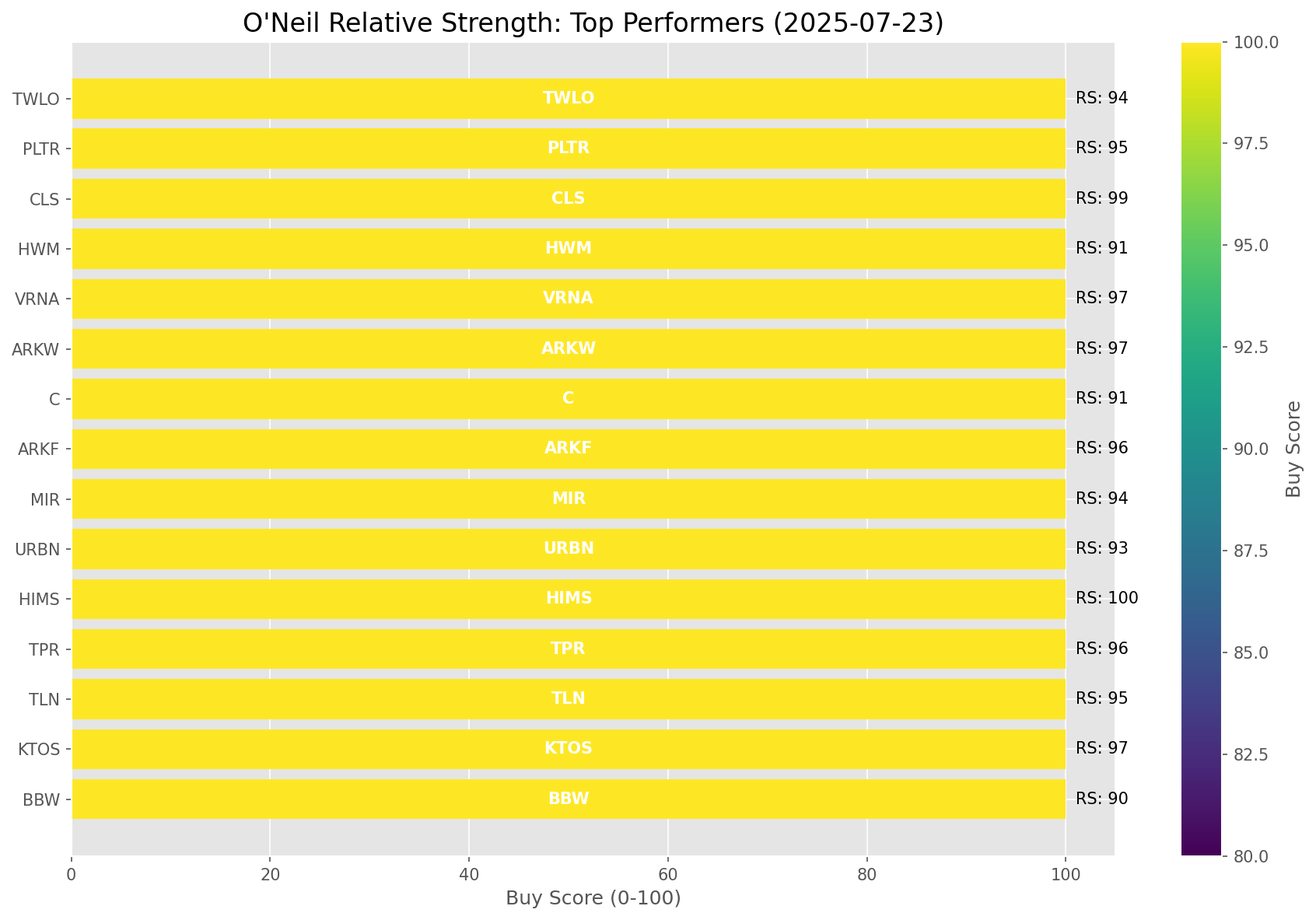
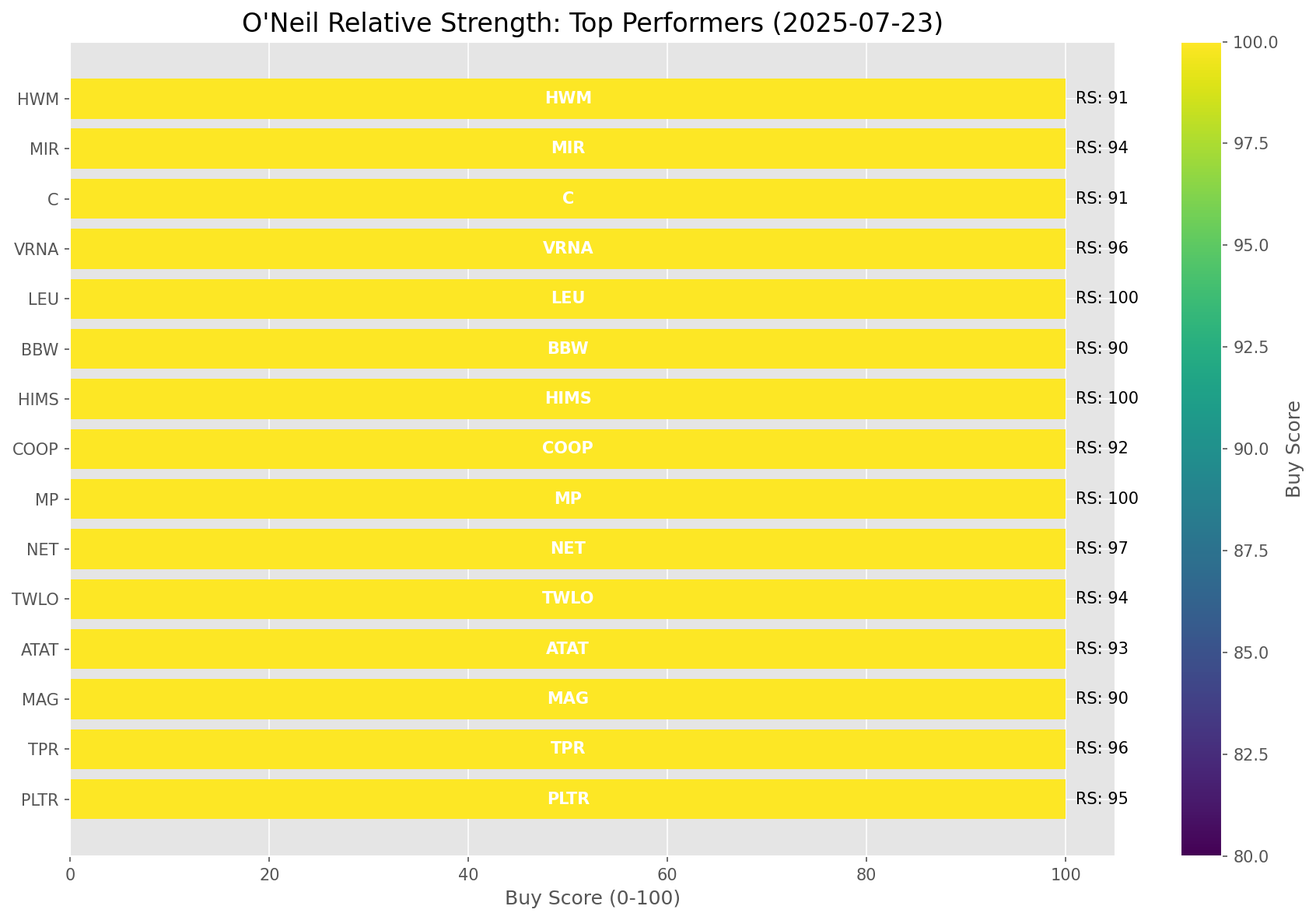
Add market report for 2025-07-23

diff --git a/oneil_relative_strength_report_2025-07-23.md b/oneil_relative_strength_report_2025-07-23.md
@@ -13,7 +13,7 @@
 | **Historical Mean** | 9.54 |
 | **Standard Deviation** | 0.57 |
 | **Z-Score (StdDev from Mean)** | 1.39 |
-| **Total Market Cap** | $311.92 trillion |
+| **Total Market Cap** | $311.98 trillion |
 | **GDP** | $29.96 trillion |
 
 ## **Market Insights**
@@ -49,41 +49,41 @@ Based on William O'Neil's Relative Strength Methodology
 
 | ETF | Strength | RS Rating | Performance | Above Key MAs | Trend | Sector |
 |-----|----------|-----------|-------------|--------------|-------|--------|
-| [URA](https://www.tradingview.com/chart/?symbol=URA) | 98.5 | 97.0 | 79.61% | 10d ✓, 50d ✓, 200d ✓ | ↗ | Uranium |
+| [URA](https://www.tradingview.com/chart/?symbol=URA) | 99.0 | 98.0 | 80.62% | 10d ✓, 50d ✓, 200d ✓ | ↗ | Uranium |
 | [ARKW](https://www.tradingview.com/chart/?symbol=ARKW) | 98.5 | 97.0 | 74.96% | 10d ✓, 50d ✓, 200d ✓ | ↗ | Next Generation Internet |
 | [BLOK](https://www.tradingview.com/chart/?symbol=BLOK) | 98.0 | 96.0 | 69.45% | 10d ✓, 50d ✓, 200d ✓ | ↗ | Blockchain & Cryptocurrency |
+| [ARKK](https://www.tradingview.com/chart/?symbol=ARKK) | 98.0 | 96.0 | 67.25% | 10d ✓, 50d ✓, 200d ✓ | ↗ | Innovation |
 | [ARKF](https://www.tradingview.com/chart/?symbol=ARKF) | 98.0 | 96.0 | 68.12% | 10d ✓, 50d ✓, 200d ✓ | ↗ | Fintech Innovation |
-| [ARKK](https://www.tradingview.com/chart/?symbol=ARKK) | 98.0 | 96.0 | 66.73% | 10d ✓, 50d ✓, 200d ✓ | ↗ | Innovation |
-| [JETS](https://www.tradingview.com/chart/?symbol=JETS) | 92.0 | 84.0 | 35.86% | 10d ✓, 50d ✓, 200d ✓ | ↗ | Airlines |
-| [XLK](https://www.tradingview.com/chart/?symbol=XLK) | 91.5 | 83.0 | 35.16% | 10d ✓, 50d ✓, 200d ✓ | ↗ | Technology |
-| [AIQ](https://www.tradingview.com/chart/?symbol=AIQ) | 90.5 | 81.0 | 32.95% | 10d ✓, 50d ✓, 200d ✓ | ↗ | Artificial Intelligence & Technology |
-| [PAVE](https://www.tradingview.com/chart/?symbol=PAVE) | 88.5 | 77.0 | 29.07% | 10d ✓, 50d ✓, 200d ✓ | ↗ | Infrastructure |
-| [XLI](https://www.tradingview.com/chart/?symbol=XLI) | 84.5 | 69.0 | 23.23% | 10d ✓, 50d ✓, 200d ✓ | ↗ | Industrial |
-| [CIBR](https://www.tradingview.com/chart/?symbol=CIBR) | 84.0 | 68.0 | 23.05% | 10d ✓, 50d ✓, 200d ✓ | ↗ | Cybersecurity |
-| [XLY](https://www.tradingview.com/chart/?symbol=XLY) | 83.0 | 66.0 | 21.71% | 10d ✓, 50d ✓, 200d ✓ | ↗ | Consumer Discretionary |
-| [SLV](https://www.tradingview.com/chart/?symbol=SLV) | 82.5 | 65.0 | 20.76% | 10d ✓, 50d ✓, 200d ✓ | ↗ | Silver |
-| [IYZ](https://www.tradingview.com/chart/?symbol=IYZ) | 81.5 | 63.0 | 20.31% | 10d ✓, 50d ✓, 200d ✓ | ↗ | Telecommunications |
-| [XLC](https://www.tradingview.com/chart/?symbol=XLC) | 81.0 | 62.0 | 19.71% | 10d ✓, 50d ✓, 200d ✓ | ↗ | Communications |
-| [KWEB](https://www.tradingview.com/chart/?symbol=KWEB) | 80.0 | 60.0 | 18.72% | 10d ✓, 50d ✓, 200d ✓ | ↗ | Chinese Internet |
-| [XLF](https://www.tradingview.com/chart/?symbol=XLF) | 73.0 | 46.0 | 12.32% | 10d ✓, 50d ✓, 200d ✓ | ↗ | Financial |
-| [XLU](https://www.tradingview.com/chart/?symbol=XLU) | 68.5 | 37.0 | 8.10% | 10d ✓, 50d ✓, 200d ✓ | ↗ | Utilities |
-| [ARKG](https://www.tradingview.com/chart/?symbol=ARKG) | 65.0 | 70.0 | 24.37% | 10d ✓, 50d ✓, 200d ✓ | ↘ | Genomics |
-| [SOXX](https://www.tradingview.com/chart/?symbol=SOXX) | 64.6 | 89.0 | 44.71% | 10d ✗, 50d ✓, 200d ✓ | ↘ | Semiconductors |
-| [IYT](https://www.tradingview.com/chart/?symbol=IYT) | 63.0 | 66.0 | 21.89% | 10d ✓, 50d ✓, 200d ✓ | ↘ | Transportation |
-| [ICLN](https://www.tradingview.com/chart/?symbol=ICLN) | 63.0 | 66.0 | 21.88% | 10d ✓, 50d ✓, 200d ✓ | ↘ | Clean Energy |
-| [GLD](https://www.tradingview.com/chart/?symbol=GLD) | 59.0 | 18.0 | 0.48% | 10d ✓, 50d ✓, 200d ✓ | ↗ | Gold |
-| [XLB](https://www.tradingview.com/chart/?symbol=XLB) | 54.5 | 49.0 | 13.39% | 10d ✓, 50d ✓, 200d ✓ | ↘ | Materials |
-| [ITB](https://www.tradingview.com/chart/?symbol=ITB) | 48.3 | 57.0 | 16.92% | 10d ✓, 50d ✓, 200d ✗ | ↘ | Home Construction |
+| [JETS](https://www.tradingview.com/chart/?symbol=JETS) | 92.5 | 85.0 | 36.19% | 10d ✓, 50d ✓, 200d ✓ | ↗ | Airlines |
+| [XLK](https://www.tradingview.com/chart/?symbol=XLK) | 92.0 | 84.0 | 35.10% | 10d ✓, 50d ✓, 200d ✓ | ↗ | Technology |
+| [AIQ](https://www.tradingview.com/chart/?symbol=AIQ) | 89.5 | 79.0 | 31.06% | 10d ✓, 50d ✓, 200d ✓ | ↗ | Artificial Intelligence & Technology |
+| [PAVE](https://www.tradingview.com/chart/?symbol=PAVE) | 87.5 | 75.0 | 27.16% | 10d ✓, 50d ✓, 200d ✓ | ↗ | Infrastructure |
+| [XLI](https://www.tradingview.com/chart/?symbol=XLI) | 85.0 | 70.0 | 23.30% | 10d ✓, 50d ✓, 200d ✓ | ↗ | Industrial |
+| [XLY](https://www.tradingview.com/chart/?symbol=XLY) | 83.5 | 67.0 | 21.67% | 10d ✓, 50d ✓, 200d ✓ | ↗ | Consumer Discretionary |
+| [SLV](https://www.tradingview.com/chart/?symbol=SLV) | 83.0 | 66.0 | 21.02% | 10d ✓, 50d ✓, 200d ✓ | ↗ | Silver |
+| [CIBR](https://www.tradingview.com/chart/?symbol=CIBR) | 83.0 | 66.0 | 21.27% | 10d ✓, 50d ✓, 200d ✓ | ↗ | Cybersecurity |
+| [IYZ](https://www.tradingview.com/chart/?symbol=IYZ) | 82.0 | 64.0 | 20.31% | 10d ✓, 50d ✓, 200d ✓ | ↗ | Telecommunications |
+| [XLC](https://www.tradingview.com/chart/?symbol=XLC) | 81.5 | 63.0 | 19.70% | 10d ✓, 50d ✓, 200d ✓ | ↗ | Communications |
+| [KWEB](https://www.tradingview.com/chart/?symbol=KWEB) | 80.5 | 61.0 | 18.54% | 10d ✓, 50d ✓, 200d ✓ | ↗ | Chinese Internet |
+| [XLF](https://www.tradingview.com/chart/?symbol=XLF) | 74.0 | 48.0 | 12.43% | 10d ✓, 50d ✓, 200d ✓ | ↗ | Financial |
+| [XLU](https://www.tradingview.com/chart/?symbol=XLU) | 69.0 | 38.0 | 7.96% | 10d ✓, 50d ✓, 200d ✓ | ↗ | Utilities |
+| [ARKG](https://www.tradingview.com/chart/?symbol=ARKG) | 65.5 | 71.0 | 24.41% | 10d ✓, 50d ✓, 200d ✓ | ↘ | Genomics |
+| [SOXX](https://www.tradingview.com/chart/?symbol=SOXX) | 65.1 | 90.0 | 44.82% | 10d ✗, 50d ✓, 200d ✓ | ↘ | Semiconductors |
+| [IYT](https://www.tradingview.com/chart/?symbol=IYT) | 64.0 | 68.0 | 21.89% | 10d ✓, 50d ✓, 200d ✓ | ↘ | Transportation |
+| [ICLN](https://www.tradingview.com/chart/?symbol=ICLN) | 61.0 | 62.0 | 18.99% | 10d ✓, 50d ✓, 200d ✓ | ↘ | Clean Energy |
+| [GLD](https://www.tradingview.com/chart/?symbol=GLD) | 59.5 | 19.0 | 0.47% | 10d ✓, 50d ✓, 200d ✓ | ↗ | Gold |
+| [XLB](https://www.tradingview.com/chart/?symbol=XLB) | 55.0 | 50.0 | 13.21% | 10d ✓, 50d ✓, 200d ✓ | ↘ | Materials |
+| [IBB](https://www.tradingview.com/chart/?symbol=IBB) | 53.5 | 47.0 | 12.28% | 10d ✓, 50d ✓, 200d ✓ | ↘ | Biotechnology |
 | [IYR](https://www.tradingview.com/chart/?symbol=IYR) | 47.0 | 34.0 | 6.43% | 10d ✓, 50d ✓, 200d ✓ | ↘ | Real Estate |
-| [DBC](https://www.tradingview.com/chart/?symbol=DBC) | 46.0 | 32.0 | 5.90% | 10d ✓, 50d ✓, 200d ✓ | ↘ | Commodities |
-| [IBB](https://www.tradingview.com/chart/?symbol=IBB) | 44.3 | 49.0 | 13.31% | 10d ✓, 50d ✓, 200d ✗ | ↘ | Biotechnology |
-| [BIL](https://www.tradingview.com/chart/?symbol=BIL) | 38.0 | 16.0 | 0.03% | 10d ✓, 50d ✓, 200d ✓ | ↘ | Short-term Treasuries |
-| [XLP](https://www.tradingview.com/chart/?symbol=XLP) | 37.0 | 14.0 | -0.81% | 10d ✓, 50d ✓, 200d ✓ | ↘ | Consumer Staples |
+| [DBC](https://www.tradingview.com/chart/?symbol=DBC) | 46.5 | 33.0 | 5.90% | 10d ✓, 50d ✓, 200d ✓ | ↘ | Commodities |
+| [ITB](https://www.tradingview.com/chart/?symbol=ITB) | 43.8 | 48.0 | 12.48% | 10d ✓, 50d ✓, 200d ✗ | ↘ | Home Construction |
+| [BIL](https://www.tradingview.com/chart/?symbol=BIL) | 38.5 | 17.0 | 0.04% | 10d ✓, 50d ✓, 200d ✓ | ↘ | Short-term Treasuries |
+| [XLP](https://www.tradingview.com/chart/?symbol=XLP) | 37.5 | 15.0 | -0.92% | 10d ✓, 50d ✓, 200d ✓ | ↘ | Consumer Staples |
 | [DBA](https://www.tradingview.com/chart/?symbol=DBA) | 35.9 | 12.0 | -2.55% | 10d ✓, 50d ✗, 200d ✗ | ↗ | Agriculture |
-| [XLV](https://www.tradingview.com/chart/?symbol=XLV) | 29.3 | 19.0 | 0.67% | 10d ✓, 50d ✓, 200d ✗ | ↘ | Healthcare |
-| [XLE](https://www.tradingview.com/chart/?symbol=XLE) | 26.9 | 34.0 | 6.51% | 10d ✗, 50d ✓, 200d ✗ | ↘ | Energy |
-| [TLT](https://www.tradingview.com/chart/?symbol=TLT) | 17.4 | 15.0 | -0.47% | 10d ✓, 50d ✗, 200d ✗ | ↘ | Long-term Treasuries |
-| [UUP](https://www.tradingview.com/chart/?symbol=UUP) | 8.5 | 17.0 | 0.22% | 10d ✗, 50d ✗, 200d ✗ | ↘ | U.S. Dollar |
+| [XLV](https://www.tradingview.com/chart/?symbol=XLV) | 29.8 | 20.0 | 0.66% | 10d ✓, 50d ✓, 200d ✗ | ↘ | Healthcare |
+| [XLE](https://www.tradingview.com/chart/?symbol=XLE) | 26.9 | 34.0 | 6.36% | 10d ✗, 50d ✓, 200d ✗ | ↘ | Energy |
+| [TLT](https://www.tradingview.com/chart/?symbol=TLT) | 17.9 | 16.0 | -0.53% | 10d ✓, 50d ✗, 200d ✗ | ↘ | Long-term Treasuries |
+| [UUP](https://www.tradingview.com/chart/?symbol=UUP) | 8.0 | 16.0 | -0.46% | 10d ✗, 50d ✗, 200d ✗ | ↘ | U.S. Dollar |
 
 ### **Sector ETF Performance Interpretation**
 
@@ -100,170 +100,192 @@ This table shows the relative strength metrics for different market sectors base
 
 The current market leadership is coming from the following sectors: **Uranium, Next Generation Internet, Blockchain & Cryptocurrency**.
 
-The **Uranium** sector (represented by **URA**) is showing particularly strong relative strength with an RS rating of 97.0 and performance of 79.61% vs. the S&P 500. This sector is trading above its 10-day, 50-day, 200-day moving average(s). Investors should consider focusing on high RS stocks within these leading sectors for potential outperformance.
+The **Uranium** sector (represented by **URA**) is showing particularly strong relative strength with an RS rating of 98.0 and performance of 80.62% vs. the S&P 500. This sector is trading above its 10-day, 50-day, 200-day moving average(s). Investors should consider focusing on high RS stocks within these leading sectors for potential outperformance.
 
 ---
 
 ## **Buy Recommendations**
 
-The following 34 stocks show exceptional relative strength:
+The following 37 stocks show exceptional relative strength:
 
 | RS Rating | Buy Score | Current Price | Chart | Name | Ticker |
 |-----------|-----------|---------------|-------|------|--------|
-| 100 | 100 | $58.73 | [Chart](https://www.tradingview.com/chart/?symbol=HIMS) | Hims & Hers Health, Inc. | HIMS |
-| 100 | 100 | $60.52 | [Chart](https://www.tradingview.com/chart/?symbol=MP) | MP Materials Corp. | MP |
-| 99 | 100 | $167.02 | [Chart](https://www.tradingview.com/chart/?symbol=CLS) | Celestica, Inc. | CLS |
-| 99 | 100 | $74.01 | [Chart](https://www.tradingview.com/chart/?symbol=LIF) | Life360, Inc. Common Stock | LIF |
-| 99 | 100 | $164.25 | [Chart](https://www.tradingview.com/chart/?symbol=FUTU) | Futu Holdings Limited American Depositary Shares | FUTU |
-| 98 | 100 | $620.90 | [Chart](https://www.tradingview.com/chart/?symbol=GEV) | GE Vernova Inc. | GEV |
-| 98 | 100 | $116.72 | [Chart](https://www.tradingview.com/chart/?symbol=RBLX) | Roblox Corporation | RBLX |
-| 97 | 100 | $57.77 | [Chart](https://www.tradingview.com/chart/?symbol=KTOS) | Kratos Defense & Security Solutions, Inc. | KTOS |
-| 97 | 100 | $156.97 | [Chart](https://www.tradingview.com/chart/?symbol=ARKW) | ARK Next Generation Internet ETF | ARKW |
-| 97 | 100 | $105.01 | [Chart](https://www.tradingview.com/chart/?symbol=VRNA) | Verona Pharma plc | VRNA |
+| 100 | 100 | $60.62 | [Chart](https://www.tradingview.com/chart/?symbol=MP) | MP Materials Corp. | MP |
+| 100 | 100 | $57.78 | [Chart](https://www.tradingview.com/chart/?symbol=HIMS) | Hims & Hers Health, Inc. | HIMS |
+| 100 | 100 | $227.96 | [Chart](https://www.tradingview.com/chart/?symbol=LEU) | Centrus Energy Corp. | LEU |
+| 100 | 100 | $46.31 | [Chart](https://www.tradingview.com/chart/?symbol=TTMI) | TTM Technologies Inc | TTMI |
+| 99 | 100 | $167.89 | [Chart](https://www.tradingview.com/chart/?symbol=CLS) | Celestica, Inc. | CLS |
+| 99 | 100 | $75.65 | [Chart](https://www.tradingview.com/chart/?symbol=LIF) | Life360, Inc. Common Stock | LIF |
+| 99 | 100 | $168.77 | [Chart](https://www.tradingview.com/chart/?symbol=FUTU) | Futu Holdings Limited American Depositary Shares | FUTU |
+| 98 | 100 | $117.25 | [Chart](https://www.tradingview.com/chart/?symbol=RBLX) | Roblox Corporation | RBLX |
+| 98 | 100 | $627.82 | [Chart](https://www.tradingview.com/chart/?symbol=GEV) | GE Vernova Inc. | GEV |
+| 98 | 100 | $58.49 | [Chart](https://www.tradingview.com/chart/?symbol=KTOS) | Kratos Defense & Security Solutions, Inc. | KTOS |
+| 98 | 100 | $36.84 | [Chart](https://www.tradingview.com/chart/?symbol=NNE) | Nano Nuclear Energy Inc. Common Stock | NNE |
+| 97 | 100 | $189.04 | [Chart](https://www.tradingview.com/chart/?symbol=NET) | Cloudflare, Inc. Class A common stock, par value $0.001 per share | NET |
+| 97 | 100 | $335.81 | [Chart](https://www.tradingview.com/chart/?symbol=TLN) | Talen Energy Corporation Common Stock | TLN |
 | 97 | 100 | $43.99 | [Chart](https://www.tradingview.com/chart/?symbol=FARO) | Faro Technologies Inc | FARO |
-| 96 | 100 | $106.25 | [Chart](https://www.tradingview.com/chart/?symbol=TPR) | Tapestry, Inc. Common Stock | TPR |
+| 97 | 100 | $156.97 | [Chart](https://www.tradingview.com/chart/?symbol=ARKW) | ARK Next Generation Internet ETF | ARKW |
+| 96 | 100 | $108.55 | [Chart](https://www.tradingview.com/chart/?symbol=TPR) | Tapestry, Inc. Common Stock | TPR |
+| 96 | 100 | $104.95 | [Chart](https://www.tradingview.com/chart/?symbol=VRNA) | Verona Pharma plc | VRNA |
 | 96 | 100 | $53.73 | [Chart](https://www.tradingview.com/chart/?symbol=ARKF) | ARK Fintech Innovation ETF | ARKF |
-| 95 | 100 | $313.58 | [Chart](https://www.tradingview.com/chart/?symbol=TLN) | Talen Energy Corporation Common Stock | TLN |
-| 95 | 100 | $153.56 | [Chart](https://www.tradingview.com/chart/?symbol=PLTR) | Palantir Technologies Inc. Class A Common Stock | PLTR |
-| 95 | 100 | $62.25 | [Chart](https://www.tradingview.com/chart/?symbol=IBKR) | Interactive Brokers Group, Inc. Class A Common Stock | IBKR |
-| 94 | 100 | $21.19 | [Chart](https://www.tradingview.com/chart/?symbol=MIR) | Mirion Technologies, Inc. | MIR |
-| 94 | 100 | $131.00 | [Chart](https://www.tradingview.com/chart/?symbol=TWLO) | Twilio Inc. | TWLO |
-| 94 | 100 | $169.12 | [Chart](https://www.tradingview.com/chart/?symbol=COOP) | Mr. Cooper Group Inc. Common Stock | COOP |
-| 93 | 100 | $74.96 | [Chart](https://www.tradingview.com/chart/?symbol=URBN) | Urban Outfitters Inc | URBN |
-| 93 | 100 | $36.26 | [Chart](https://www.tradingview.com/chart/?symbol=ATAT) | Atour Lifestyle Holdings Limited American Depositary Shares | ATAT |
-| 92 | 100 | $57.39 | [Chart](https://www.tradingview.com/chart/?symbol=VIK) | Viking Holdings Ltd | VIK |
-| 91 | 100 | $95.67 | [Chart](https://www.tradingview.com/chart/?symbol=C) | Citigroup Inc. | C |
-| 91 | 100 | $186.34 | [Chart](https://www.tradingview.com/chart/?symbol=HWM) | Howmet Aerospace Inc. | HWM |
+| 95 | 100 | $153.38 | [Chart](https://www.tradingview.com/chart/?symbol=PLTR) | Palantir Technologies Inc. Class A Common Stock | PLTR |
+| 95 | 100 | $63.06 | [Chart](https://www.tradingview.com/chart/?symbol=IBKR) | Interactive Brokers Group, Inc. Class A Common Stock | IBKR |
+| 94 | 100 | $133.39 | [Chart](https://www.tradingview.com/chart/?symbol=TWLO) | Twilio Inc. | TWLO |
+| 94 | 100 | $21.60 | [Chart](https://www.tradingview.com/chart/?symbol=MIR) | Mirion Technologies, Inc. | MIR |
+| 93 | 100 | $36.48 | [Chart](https://www.tradingview.com/chart/?symbol=ATAT) | Atour Lifestyle Holdings Limited American Depositary Shares | ATAT |
+| 92 | 100 | $168.91 | [Chart](https://www.tradingview.com/chart/?symbol=COOP) | Mr. Cooper Group Inc. Common Stock | COOP |
+| 92 | 100 | $57.89 | [Chart](https://www.tradingview.com/chart/?symbol=VIK) | Viking Holdings Ltd | VIK |
+| 91 | 100 | $95.78 | [Chart](https://www.tradingview.com/chart/?symbol=C) | Citigroup Inc. | C |
+| 91 | 100 | $186.54 | [Chart](https://www.tradingview.com/chart/?symbol=HWM) | Howmet Aerospace Inc. | HWM |
+| 90 | 100 | $21.86 | [Chart](https://www.tradingview.com/chart/?symbol=MAG) | MAG Silver Corp. | MAG |
 | 90 | 100 | $53.98 | [Chart](https://www.tradingview.com/chart/?symbol=BBW) | Build-A-Bear Workshop, Inc. | BBW |
 | 89 | 99 | $33.74 | [Chart](https://www.tradingview.com/chart/?symbol=BRRR) | Coinshares Bitcoin ETF Common Shares of Beneficial Interest | BRRR |
-| 88 | 98 | $22.15 | [Chart](https://www.tradingview.com/chart/?symbol=MAG) | MAG Silver Corp. | MAG |
-| 86 | 97 | $262.82 | [Chart](https://www.tradingview.com/chart/?symbol=GE) | GE Aerospace | GE |
-| 85 | 96 | $61.71 | [Chart](https://www.tradingview.com/chart/?symbol=RYAAY) | Ryanair Holdings plc American Depositary Shares | RYAAY |
-| 85 | 96 | $52.91 | [Chart](https://www.tradingview.com/chart/?symbol=BTC) | Grayscale Bitcoin Mini Trust ETF | BTC |
-| 84 | 96 | $78.05 | [Chart](https://www.tradingview.com/chart/?symbol=TPB) | Turning Point Brands, Inc. | TPB |
-| 84 | 95 | $285.20 | [Chart](https://www.tradingview.com/chart/?symbol=VEEV) | Veeva Systems Inc. | VEEV |
-| 83 | 95 | $66.01 | [Chart](https://www.tradingview.com/chart/?symbol=CAKE) | Cheesecake Factory (The) | CAKE |
-| 80 | 90 | $48.13 | [Chart](https://www.tradingview.com/chart/?symbol=FHI) | Federated Hermes, Inc. | FHI |
+| 87 | 98 | $263.33 | [Chart](https://www.tradingview.com/chart/?symbol=GE) | GE Aerospace | GE |
+| 86 | 98 | $79.22 | [Chart](https://www.tradingview.com/chart/?symbol=TPB) | Turning Point Brands, Inc. | TPB |
+| 85 | 98 | $240.66 | [Chart](https://www.tradingview.com/chart/?symbol=DASH) | DoorDash, Inc. Class A Common Stock | DASH |
+| 85 | 96 | $62.55 | [Chart](https://www.tradingview.com/chart/?symbol=RYAAY) | Ryanair Holdings plc American Depositary Shares | RYAAY |
+| 84 | 96 | $68.25 | [Chart](https://www.tradingview.com/chart/?symbol=CAKE) | Cheesecake Factory (The) | CAKE |
+| 82 | 92 | $286.98 | [Chart](https://www.tradingview.com/chart/?symbol=VEEV) | Veeva Systems Inc. | VEEV |
+| 81 | 91 | $48.13 | [Chart](https://www.tradingview.com/chart/?symbol=FHI) | Federated Hermes, Inc. | FHI |
 
 ---
 
 
 ## **Sell Recommendations**
 
-The following 110 stocks show deteriorating relative strength:
+The following 129 stocks show deteriorating relative strength:
 
 | RS Rating | Sell Score | Current Price | Chart | Name | Ticker |
 |-----------|------------|---------------|-------|------|--------|
-| 1 | 100 | $15.74 | [Chart](https://www.tradingview.com/chart/?symbol=UVXY) | ProShares Ultra VIX Short-Term Futures ETF | UVXY |
+| 1 | 100 | $15.78 | [Chart](https://www.tradingview.com/chart/?symbol=UVXY) | ProShares Ultra VIX Short-Term Futures ETF | UVXY |
 | 1 | 100 | $24.46 | [Chart](https://www.tradingview.com/chart/?symbol=QID) | ProShares UltraShort QQQ | QID |
-| 1 | 100 | $10.37 | [Chart](https://www.tradingview.com/chart/?symbol=TZA) | Direxion Daily Small Cap Bear 3x Shares | TZA |
-| 1 | 100 | $25.19 | [Chart](https://www.tradingview.com/chart/?symbol=TECS) | Direxion Daily Technology Bear 3x Shares | TECS |
-| 1 | 100 | $12.82 | [Chart](https://www.tradingview.com/chart/?symbol=NVDS) | Investment Managers Series Trust II Tradr 1.5X Short NVDA Daily ETF | NVDS |
 | 1 | 100 | $39.28 | [Chart](https://www.tradingview.com/chart/?symbol=SDOW) | ProShares UltraPro Short Dow 30 | SDOW |
-| 2 | 100 | $23.87 | [Chart](https://www.tradingview.com/chart/?symbol=DXD) | ProShares UltraShort Dow 30 | DXD |
-| 2 | 100 | $15.96 | [Chart](https://www.tradingview.com/chart/?symbol=SDS) | ProShares UltraShort S&P500 | SDS |
-| 2 | 100 | $23.51 | [Chart](https://www.tradingview.com/chart/?symbol=VCYT) | Veracyte, Inc. | VCYT |
+| 1 | 100 | $10.31 | [Chart](https://www.tradingview.com/chart/?symbol=TZA) | Direxion Daily Small Cap Bear 3x Shares | TZA |
+| 1 | 100 | $12.79 | [Chart](https://www.tradingview.com/chart/?symbol=NVDS) | Investment Managers Series Trust II Tradr 1.5X Short NVDA Daily ETF | NVDS |
+| 1 | 100 | $24.83 | [Chart](https://www.tradingview.com/chart/?symbol=TECS) | Direxion Daily Technology Bear 3x Shares | TECS |
+| 2 | 100 | $23.39 | [Chart](https://www.tradingview.com/chart/?symbol=DXD) | ProShares UltraShort Dow 30 | DXD |
+| 2 | 100 | $15.97 | [Chart](https://www.tradingview.com/chart/?symbol=SDS) | ProShares UltraShort S&P500 | SDS |
+| 2 | 100 | $17.83 | [Chart](https://www.tradingview.com/chart/?symbol=BITI) | ProShares Short Bitcoin ETF | BITI |
 | 2 | 100 | $23.21 | [Chart](https://www.tradingview.com/chart/?symbol=CRTO) | Criteo S.A. | CRTO |
 | 2 | 100 | $16.32 | [Chart](https://www.tradingview.com/chart/?symbol=CSTL) | Castle Biosciences, Inc. Common Stock | CSTL |
+| 2 | 100 | $23.87 | [Chart](https://www.tradingview.com/chart/?symbol=VCYT) | Veracyte, Inc. | VCYT |
 | 3 | 100 | $16.96 | [Chart](https://www.tradingview.com/chart/?symbol=BTAL) | AGF U.S. Market Neutral Anti-Beta Fund | BTAL |
-| 3 | 100 | $12.05 | [Chart](https://www.tradingview.com/chart/?symbol=IART) | Integra LifeSciences Holdings | IART |
-| 3 | 100 | $10.10 | [Chart](https://www.tradingview.com/chart/?symbol=SPDN) | Direxion Daily S&P 500 Bear 1X Shares | SPDN |
 | 3 | 100 | $33.13 | [Chart](https://www.tradingview.com/chart/?symbol=PSQ) | ProShares Short QQQ | PSQ |
-| 3 | 100 | $10.31 | [Chart](https://www.tradingview.com/chart/?symbol=WNC) | Wabash National Corp. | WNC |
 | 3 | 100 | $38.90 | [Chart](https://www.tradingview.com/chart/?symbol=SH) | ProShares Short S&P500 | SH |
+| 3 | 100 | $44.34 | [Chart](https://www.tradingview.com/chart/?symbol=LINE) | Lineage, Inc. Common Stock | LINE |
+| 3 | 100 | $10.10 | [Chart](https://www.tradingview.com/chart/?symbol=SPDN) | Direxion Daily S&P 500 Bear 1X Shares | SPDN |
+| 3 | 100 | $22.42 | [Chart](https://www.tradingview.com/chart/?symbol=ERY) | Direxion Daily Energy Bear 2X Shares | ERY |
 | 3 | 100 | $66.97 | [Chart](https://www.tradingview.com/chart/?symbol=SKY) | Champion Homes, Inc. | SKY |
-| 3 | 100 | $43.65 | [Chart](https://www.tradingview.com/chart/?symbol=LINE) | Lineage, Inc. Common Stock | LINE |
-| 4 | 100 | $96.79 | [Chart](https://www.tradingview.com/chart/?symbol=ONTO) | Onto Innovation Inc. | ONTO |
+| 4 | 100 | $10.18 | [Chart](https://www.tradingview.com/chart/?symbol=IMXI) | International Money Express, Inc. | IMXI |
+| 4 | 100 | $11.76 | [Chart](https://www.tradingview.com/chart/?symbol=NRIX) | Nurix Therapeutics, Inc. Common stock | NRIX |
+| 4 | 100 | $96.91 | [Chart](https://www.tradingview.com/chart/?symbol=ONTO) | Onto Innovation Inc. | ONTO |
 | 4 | 100 | $11.10 | [Chart](https://www.tradingview.com/chart/?symbol=OFIX) | Orthofix Medical Inc. Common Stock (DE) | OFIX |
 | 4 | 100 | $15.16 | [Chart](https://www.tradingview.com/chart/?symbol=PLSE) | Pulse Biosciences, Inc Common Stock (DE) | PLSE |
-| 4 | 100 | $22.42 | [Chart](https://www.tradingview.com/chart/?symbol=ERY) | Direxion Daily Energy Bear 2X Shares | ERY |
-| 4 | 100 | $25.33 | [Chart](https://www.tradingview.com/chart/?symbol=DOG) | ProShares Short Dow30 | DOG |
-| 4 | 100 | $10.18 | [Chart](https://www.tradingview.com/chart/?symbol=IMXI) | International Money Express, Inc. | IMXI |
-| 5 | 100 | $115.20 | [Chart](https://www.tradingview.com/chart/?symbol=TFX) | Teleflex Incorporated | TFX |
 | 5 | 100 | $129.43 | [Chart](https://www.tradingview.com/chart/?symbol=INSP) | Inspire Medical Systems, Inc. | INSP |
-| 5 | 100 | $54.47 | [Chart](https://www.tradingview.com/chart/?symbol=TSN) | Tyson Foods, Inc. | TSN |
+| 5 | 100 | $25.07 | [Chart](https://www.tradingview.com/chart/?symbol=DOG) | ProShares Short Dow30 | DOG |
+| 5 | 100 | $115.20 | [Chart](https://www.tradingview.com/chart/?symbol=TFX) | Teleflex Incorporated | TFX |
+| 5 | 100 | $54.15 | [Chart](https://www.tradingview.com/chart/?symbol=TSN) | Tyson Foods, Inc. | TSN |
+| 6 | 100 | $45.98 | [Chart](https://www.tradingview.com/chart/?symbol=ACIW) | ACI Worldwide, Inc. | ACIW |
 | 6 | 100 | $21.35 | [Chart](https://www.tradingview.com/chart/?symbol=AMPH) | Amphastar Pharmaceuticals, Inc. | AMPH |
-| 7 | 100 | $35.33 | [Chart](https://www.tradingview.com/chart/?symbol=VERX) | Vertex, Inc. Class A Common Stock | VERX |
-| 7 | 100 | $14.40 | [Chart](https://www.tradingview.com/chart/?symbol=SEM) | SELECT MEDICAL HOLDINGS CORP | SEM |
-| 7 | 100 | $14.54 | [Chart](https://www.tradingview.com/chart/?symbol=VRE) | Veris Residential, Inc. | VRE |
+| 7 | 100 | $60.72 | [Chart](https://www.tradingview.com/chart/?symbol=UL) | Unilever plc | UL |
+| 7 | 100 | $14.56 | [Chart](https://www.tradingview.com/chart/?symbol=SEM) | SELECT MEDICAL HOLDINGS CORP | SEM |
+| 7 | 100 | $88.41 | [Chart](https://www.tradingview.com/chart/?symbol=CL) | Colgate-Palmolive Company | CL |
+| 7 | 100 | $35.97 | [Chart](https://www.tradingview.com/chart/?symbol=VERX) | Vertex, Inc. Class A Common Stock | VERX |
+| 7 | 100 | $10.21 | [Chart](https://www.tradingview.com/chart/?symbol=LBTYA) | Liberty Global Ltd. Class A Common Shares | LBTYA |
 | 7 | 100 | $126.24 | [Chart](https://www.tradingview.com/chart/?symbol=ICUI) | ICU Medical Inc | ICUI |
-| 7 | 100 | $60.73 | [Chart](https://www.tradingview.com/chart/?symbol=UL) | Unilever plc | UL |
-| 7 | 100 | $20.85 | [Chart](https://www.tradingview.com/chart/?symbol=THS) | Treehouse Foods, Inc. | THS |
-| 8 | 100 | $15.31 | [Chart](https://www.tradingview.com/chart/?symbol=TNDM) | Tandem Diabetes Care, Inc. | TNDM |
-| 9 | 100 | $28.26 | [Chart](https://www.tradingview.com/chart/?symbol=OMCL) | Omnicell Inc | OMCL |
-| 10 | 100 | $11.77 | [Chart](https://www.tradingview.com/chart/?symbol=CLB) | Core Laboratories Inc. | CLB |
+| 8 | 100 | $20.85 | [Chart](https://www.tradingview.com/chart/?symbol=THS) | Treehouse Foods, Inc. | THS |
+| 8 | 100 | $14.54 | [Chart](https://www.tradingview.com/chart/?symbol=VRE) | Veris Residential, Inc. | VRE |
+| 10 | 100 | $28.26 | [Chart](https://www.tradingview.com/chart/?symbol=OMCL) | Omnicell Inc | OMCL |
 | 10 | 100 | $10.62 | [Chart](https://www.tradingview.com/chart/?symbol=NMFC) | NEW MOUNTAIN FINANCE CORPORATION | NMFC |
 | 11 | 100 | $64.23 | [Chart](https://www.tradingview.com/chart/?symbol=ZROZ) | PIMCO 25+ Year Zero Coupon U.S. Treasury Index Exchange-Traded Fund | ZROZ |
-| 11 | 100 | $36.48 | [Chart](https://www.tradingview.com/chart/?symbol=TMF) | Direxion Daily 20+ Year Treasury Bull 3X Shares (based on the NYSE 20 Year Plus Treasury Bond Index; symbol AXTWEN) | TMF |
-| 13 | 100 | $337.02 | [Chart](https://www.tradingview.com/chart/?symbol=EG) | Everest Group, Ltd. | EG |
-| 15 | 100 | $86.08 | [Chart](https://www.tradingview.com/chart/?symbol=TLT) | iShares 20+ Year Treasury Bond ETF | TLT |
-| 6 | 99 | $45.52 | [Chart](https://www.tradingview.com/chart/?symbol=ACIW) | ACI Worldwide, Inc. | ACIW |
-| 7 | 99 | $37.50 | [Chart](https://www.tradingview.com/chart/?symbol=KSA) | iShares MSCI Saudi Arabia ETF | KSA |
-| 8 | 99 | $158.18 | [Chart](https://www.tradingview.com/chart/?symbol=PG) | Procter & Gamble Company | PG |
-| 10 | 99 | $87.15 | [Chart](https://www.tradingview.com/chart/?symbol=BCC) | Boise Cascade Company | BCC |
+| 12 | 100 | $36.41 | [Chart](https://www.tradingview.com/chart/?symbol=TMF) | Direxion Daily 20+ Year Treasury Bull 3X Shares (based on the NYSE 20 Year Plus Treasury Bond Index; symbol AXTWEN) | TMF |
+| 13 | 100 | $16.02 | [Chart](https://www.tradingview.com/chart/?symbol=TNDM) | Tandem Diabetes Care, Inc. | TNDM |
+| 14 | 100 | $64.19 | [Chart](https://www.tradingview.com/chart/?symbol=EDV) | Vanguard World Funds Extended Duration ETF | EDV |
+| 16 | 100 | $86.02 | [Chart](https://www.tradingview.com/chart/?symbol=TLT) | iShares 20+ Year Treasury Bond ETF | TLT |
+| 14 | 99 | $337.02 | [Chart](https://www.tradingview.com/chart/?symbol=EG) | Everest Group, Ltd. | EG |
+| 14 | 99 | $68.03 | [Chart](https://www.tradingview.com/chart/?symbol=EQR) | Equity Residential | EQR |
+| 6 | 98 | $303.50 | [Chart](https://www.tradingview.com/chart/?symbol=CI) | The Cigna Group | CI |
+| 8 | 98 | $37.50 | [Chart](https://www.tradingview.com/chart/?symbol=KSA) | iShares MSCI Saudi Arabia ETF | KSA |
 | 9 | 98 | $210.67 | [Chart](https://www.tradingview.com/chart/?symbol=MKTX) | MarketAxess Holdings Inc. | MKTX |
 | 9 | 98 | $47.26 | [Chart](https://www.tradingview.com/chart/?symbol=VVX) | V2X, Inc. | VVX |
-| 14 | 98 | $10.07 | [Chart](https://www.tradingview.com/chart/?symbol=NMZ) | Nuveen Municipal High Income Opportunity Fund | NMZ |
-| 8 | 97 | $88.70 | [Chart](https://www.tradingview.com/chart/?symbol=CL) | Colgate-Palmolive Company | CL |
-| 8 | 97 | $56.12 | [Chart](https://www.tradingview.com/chart/?symbol=HRB) | H&R Block, Inc. | HRB |
-| 12 | 97 | $54.41 | [Chart](https://www.tradingview.com/chart/?symbol=AMWD) | American Woodmark Corp | AMWD |
+| 10 | 98 | $72.22 | [Chart](https://www.tradingview.com/chart/?symbol=MKC) | McCormick & Company, Incorporated Non-VTG CS | MKC |
+| 11 | 98 | $87.15 | [Chart](https://www.tradingview.com/chart/?symbol=BCC) | Boise Cascade Company | BCC |
+| 12 | 98 | $77.83 | [Chart](https://www.tradingview.com/chart/?symbol=BG) | Bunge Global SA | BG |
+| 7 | 97 | $37.59 | [Chart](https://www.tradingview.com/chart/?symbol=VNOM) | Viper Energy, Inc. Class A Common Stock | VNOM |
+| 9 | 97 | $158.04 | [Chart](https://www.tradingview.com/chart/?symbol=PG) | Procter & Gamble Company | PG |
+| 10 | 97 | $32.38 | [Chart](https://www.tradingview.com/chart/?symbol=INVH) | Invitation Homes Inc. Common Stock | INVH |
+| 15 | 97 | $10.07 | [Chart](https://www.tradingview.com/chart/?symbol=NMZ) | Nuveen Municipal High Income Opportunity Fund | NMZ |
+| 6 | 96 | $17.47 | [Chart](https://www.tradingview.com/chart/?symbol=IRT) | Independence Realty Trust Inc. | IRT |
 | 10 | 96 | $27.28 | [Chart](https://www.tradingview.com/chart/?symbol=GTY) | Getty Realty Corp. | GTY |
-| 14 | 96 | $10.24 | [Chart](https://www.tradingview.com/chart/?symbol=MYI) | BLACKROCK MUNIYIELD QUALITY FUND III, INC. | MYI |
-| 15 | 96 | $28.55 | [Chart](https://www.tradingview.com/chart/?symbol=BAX) | Baxter International Inc. | BAX |
-| 7 | 94 | $300.05 | [Chart](https://www.tradingview.com/chart/?symbol=CI) | The Cigna Group | CI |
-| 10 | 94 | $48.75 | [Chart](https://www.tradingview.com/chart/?symbol=SNY) | Sanofi American Depositary Shares (Each representing one-half of one ordinary share) | SNY |
-| 11 | 94 | $72.50 | [Chart](https://www.tradingview.com/chart/?symbol=MKC) | McCormick & Company, Incorporated Non-VTG CS | MKC |
-| 14 | 94 | $15.65 | [Chart](https://www.tradingview.com/chart/?symbol=PRO) | Pros Holdings, Inc. | PRO |
-| 15 | 94 | $49.23 | [Chart](https://www.tradingview.com/chart/?symbol=BNDX) | Vanguard Total International Bond ETF | BNDX |
-| 13 | 93 | $62.09 | [Chart](https://www.tradingview.com/chart/?symbol=COLM) | Columbia Sportswear Co | COLM |
-| 14 | 93 | $37.20 | [Chart](https://www.tradingview.com/chart/?symbol=PBA) | PEMBINA PIPELINE CORPORATION | PBA |
-| 18 | 93 | $64.75 | [Chart](https://www.tradingview.com/chart/?symbol=EDV) | Vanguard World Funds Extended Duration ETF | EDV |
-| 19 | 93 | $10.84 | [Chart](https://www.tradingview.com/chart/?symbol=MQY) | Blackrock Muni Yield Quality Fund, Inc | MQY |
+| 13 | 96 | $16.02 | [Chart](https://www.tradingview.com/chart/?symbol=PRO) | Pros Holdings, Inc. | PRO |
+| 13 | 96 | $54.41 | [Chart](https://www.tradingview.com/chart/?symbol=AMWD) | American Woodmark Corp | AMWD |
+| 6 | 95 | $37.59 | [Chart](https://www.tradingview.com/chart/?symbol=WTRG) | Essential Utilities, Inc. | WTRG |
+| 7 | 95 | $127.60 | [Chart](https://www.tradingview.com/chart/?symbol=KMB) | Kimberly-Clark Corp. | KMB |
+| 8 | 95 | $96.88 | [Chart](https://www.tradingview.com/chart/?symbol=CHD) | Church & Dwight Co., Inc. | CHD |
+| 15 | 95 | $10.24 | [Chart](https://www.tradingview.com/chart/?symbol=MYI) | BLACKROCK MUNIYIELD QUALITY FUND III, INC. | MYI |
+| 16 | 95 | $28.55 | [Chart](https://www.tradingview.com/chart/?symbol=BAX) | Baxter International Inc. | BAX |
+| 14 | 94 | $40.91 | [Chart](https://www.tradingview.com/chart/?symbol=UDR) | UDR, Inc. | UDR |
+| 19 | 94 | $11.53 | [Chart](https://www.tradingview.com/chart/?symbol=NVG) | Nuveen AMT-Free Municipal Credit Income Fund | NVG |
+| 9 | 93 | $30.57 | [Chart](https://www.tradingview.com/chart/?symbol=EPRT) | Essential Properties Realty Trust, Inc. | EPRT |
+| 18 | 93 | $11.07 | [Chart](https://www.tradingview.com/chart/?symbol=NAD) | Nuveen Quality Municipal Income Fund | NAD |
+| 18 | 93 | $10.64 | [Chart](https://www.tradingview.com/chart/?symbol=NEA) | Nuveen AMT-Free Quality Municipal Income Fund | NEA |
+| 20 | 93 | $44.24 | [Chart](https://www.tradingview.com/chart/?symbol=TFI) | SPDR Nuveen ICE Municipal Bond ETF | TFI |
+| 22 | 93 | $11.60 | [Chart](https://www.tradingview.com/chart/?symbol=NZF) | Nuveen Municipal Credit Income Fund | NZF |
 | 9 | 92 | $26.89 | [Chart](https://www.tradingview.com/chart/?symbol=FCPT) | Four Corners Property Trust, Inc. | FCPT |
-| 12 | 92 | $32.60 | [Chart](https://www.tradingview.com/chart/?symbol=INVH) | Invitation Homes Inc. Common Stock | INVH |
-| 16 | 91 | $73.24 | [Chart](https://www.tradingview.com/chart/?symbol=FRPT) | Freshpet, Inc. | FRPT |
-| 18 | 90 | $18.99 | [Chart](https://www.tradingview.com/chart/?symbol=SPT) | Sprout Social, Inc Class A Common Stock | SPT |
-| 19 | 90 | $55.28 | [Chart](https://www.tradingview.com/chart/?symbol=CMF) | iShares California Muni Bond ETF | CMF |
-| 20 | 90 | $10.89 | [Chart](https://www.tradingview.com/chart/?symbol=ACIC) | American Coastal Insurance Corporation Common Stock | ACIC |
-| 21 | 90 | $68.32 | [Chart](https://www.tradingview.com/chart/?symbol=EQR) | Equity Residential | EQR |
-| 23 | 90 | $11.64 | [Chart](https://www.tradingview.com/chart/?symbol=NZF) | Nuveen Municipal Credit Income Fund | NZF |
-| 19 | 89 | $11.12 | [Chart](https://www.tradingview.com/chart/?symbol=NAD) | Nuveen Quality Municipal Income Fund | NAD |
-| 14 | 88 | $34.96 | [Chart](https://www.tradingview.com/chart/?symbol=PECO) | Phillips Edison & Company, Inc. Common Stock | PECO |
-| 17 | 88 | $50.10 | [Chart](https://www.tradingview.com/chart/?symbol=GSY) | Invesco Ultra Short Duration ETF | GSY |
-| 19 | 87 | $114.19 | [Chart](https://www.tradingview.com/chart/?symbol=BFAM) | BRIGHT HORIZONS FAMILY SOLUTIONS INC. | BFAM |
-| 19 | 87 | $25.06 | [Chart](https://www.tradingview.com/chart/?symbol=VRIG) | Invesco Variable Rate Investment Grade ETF | VRIG |
-| 21 | 87 | $10.68 | [Chart](https://www.tradingview.com/chart/?symbol=NEA) | Nuveen AMT-Free Quality Municipal Income Fund | NEA |
-| 24 | 87 | $11.61 | [Chart](https://www.tradingview.com/chart/?symbol=NVG) | Nuveen AMT-Free Municipal Credit Income Fund | NVG |
-| 23 | 85 | $13.54 | [Chart](https://www.tradingview.com/chart/?symbol=EWTX) | Edgewise Therapeutics, Inc. Common Stock | EWTX |
-| 28 | 85 | $22.79 | [Chart](https://www.tradingview.com/chart/?symbol=RPD) | Rapid7, Inc. Common Stock | RPD |
-| 19 | 84 | $36.74 | [Chart](https://www.tradingview.com/chart/?symbol=AMH) | AMERICAN HOMES 4 RENT | AMH |
-| 23 | 84 | $16.25 | [Chart](https://www.tradingview.com/chart/?symbol=CHCT) | Community Healthcare Trust Incorporated Common Stock, $0.01 par value per share | CHCT |
-| 25 | 82 | $11.32 | [Chart](https://www.tradingview.com/chart/?symbol=NFBK) | Northfield Bancorp, Inc. | NFBK |
-| 27 | 82 | $10.97 | [Chart](https://www.tradingview.com/chart/?symbol=NAC) | Nuveen California Quality Municipal Income Fund | NAC |
-| 29 | 82 | $29.60 | [Chart](https://www.tradingview.com/chart/?symbol=CIVI) | Civitas Resources, Inc. | CIVI |
-| 29 | 82 | $15.31 | [Chart](https://www.tradingview.com/chart/?symbol=SAFE) | Safehold Inc. | SAFE |
-| 26 | 81 | $26.03 | [Chart](https://www.tradingview.com/chart/?symbol=WY) | Weyerhaeuser Company | WY |
-| 26 | 80 | $13.40 | [Chart](https://www.tradingview.com/chart/?symbol=PDO) | PIMCO Dynamic Income Opportunities Fund | PDO |
-| 27 | 80 | $16.45 | [Chart](https://www.tradingview.com/chart/?symbol=MLNK) | MeridianLink, Inc. | MLNK |
-| 34 | 80 | $23.99 | [Chart](https://www.tradingview.com/chart/?symbol=EWM) | iShares MSCI Malaysia ETF | EWM |
-| 35 | 80 | $47.59 | [Chart](https://www.tradingview.com/chart/?symbol=EDU) | New Oriental Education and Technology Group, Inc. American Depositary Shares (each representing ten (10) Common Shares) | EDU |
-| 35 | 80 | $71.64 | [Chart](https://www.tradingview.com/chart/?symbol=MMS) | MAXIMUS, Inc. | MMS |
-| 29 | 79 | $14.63 | [Chart](https://www.tradingview.com/chart/?symbol=DXC) | DXC Technology Company | DXC |
-| 31 | 78 | $15.26 | [Chart](https://www.tradingview.com/chart/?symbol=BCSF) | Bain Capital Specialty Finance, Inc. | BCSF |
-| 27 | 76 | $46.54 | [Chart](https://www.tradingview.com/chart/?symbol=EPI) | WisdomTree India Earnings Fund ETF | EPI |
-| 34 | 76 | $25.82 | [Chart](https://www.tradingview.com/chart/?symbol=HPQ) | HP Inc. | HPQ |
-| 30 | 75 | $297.89 | [Chart](https://www.tradingview.com/chart/?symbol=UTHR) | United Therapeutics Corp | UTHR |
-| 31 | 75 | $14.41 | [Chart](https://www.tradingview.com/chart/?symbol=RDY) | Dr. Reddy's Laboratories Limited American Depositary Shares | RDY |
-| 36 | 75 | $104.22 | [Chart](https://www.tradingview.com/chart/?symbol=PRU) | Prudential Financial, Inc. | PRU |
-| 37 | 75 | $88.89 | [Chart](https://www.tradingview.com/chart/?symbol=LPX) | Louisiana-Pacific Corp. | LPX |
-| 34 | 74 | $108.71 | [Chart](https://www.tradingview.com/chart/?symbol=ADUS) | Addus HomeCare Corp. | ADUS |
-| 37 | 74 | $195.66 | [Chart](https://www.tradingview.com/chart/?symbol=RGA) | Reinsurance Group of America, Incorporated | RGA |
-| 31 | 73 | $154.57 | [Chart](https://www.tradingview.com/chart/?symbol=WIX) | WIX.com Ltd. | WIX |
-| 32 | 73 | $13.03 | [Chart](https://www.tradingview.com/chart/?symbol=TFSL) | TFS Financial Corporation | TFSL |
-| 35 | 73 | $31.43 | [Chart](https://www.tradingview.com/chart/?symbol=CNQ) | Canadian Natural Resources Limited | CNQ |
-| 33 | 69 | $27.52 | [Chart](https://www.tradingview.com/chart/?symbol=EWZ) | iShares MSCI Brazil ETF | EWZ |
-| 34 | 67 | $11.54 | [Chart](https://www.tradingview.com/chart/?symbol=PTLO) | Portillo's Inc. Class A Common Stock | PTLO |
-| 36 | 67 | $25.16 | [Chart](https://www.tradingview.com/chart/?symbol=ILF) | iShares Latin America 40 ETF | ILF |
+| 11 | 92 | $29.48 | [Chart](https://www.tradingview.com/chart/?symbol=HRL) | Hormel Foods Corporation | HRL |
+| 12 | 92 | $81.50 | [Chart](https://www.tradingview.com/chart/?symbol=OKE) | Oneok, Inc. | OKE |
+| 13 | 92 | $36.55 | [Chart](https://www.tradingview.com/chart/?symbol=AMH) | AMERICAN HOMES 4 RENT | AMH |
+| 14 | 92 | $62.09 | [Chart](https://www.tradingview.com/chart/?symbol=COLM) | Columbia Sportswear Co | COLM |
+| 15 | 92 | $37.20 | [Chart](https://www.tradingview.com/chart/?symbol=PBA) | PEMBINA PIPELINE CORPORATION | PBA |
+| 9 | 91 | $102.56 | [Chart](https://www.tradingview.com/chart/?symbol=AFL) | Aflac Inc. | AFL |
+| 16 | 91 | $24.25 | [Chart](https://www.tradingview.com/chart/?symbol=HYMB) | SPDR Nuveen ICE High Yield Municipal Bond ETF | HYMB |
+| 17 | 91 | $49.23 | [Chart](https://www.tradingview.com/chart/?symbol=BNDX) | Vanguard Total International Bond ETF | BNDX |
+| 21 | 91 | $10.84 | [Chart](https://www.tradingview.com/chart/?symbol=MQY) | Blackrock Muni Yield Quality Fund, Inc | MQY |
+| 13 | 90 | $16.04 | [Chart](https://www.tradingview.com/chart/?symbol=FIHL) | Fidelis Insurance Holdings Limited | FIHL |
+| 20 | 90 | $55.24 | [Chart](https://www.tradingview.com/chart/?symbol=CMF) | iShares California Muni Bond ETF | CMF |
+| 21 | 89 | $10.89 | [Chart](https://www.tradingview.com/chart/?symbol=ACIC) | American Coastal Insurance Corporation Common Stock | ACIC |
+| 20 | 88 | $18.99 | [Chart](https://www.tradingview.com/chart/?symbol=SPT) | Sprout Social, Inc Class A Common Stock | SPT |
+| 15 | 87 | $34.96 | [Chart](https://www.tradingview.com/chart/?symbol=PECO) | Phillips Edison & Company, Inc. Common Stock | PECO |
+| 18 | 87 | $50.10 | [Chart](https://www.tradingview.com/chart/?symbol=GSY) | Invesco Ultra Short Duration ETF | GSY |
+| 20 | 86 | $114.19 | [Chart](https://www.tradingview.com/chart/?symbol=BFAM) | BRIGHT HORIZONS FAMILY SOLUTIONS INC. | BFAM |
+| 20 | 86 | $25.06 | [Chart](https://www.tradingview.com/chart/?symbol=VRIG) | Invesco Variable Rate Investment Grade ETF | VRIG |
+| 24 | 86 | $48.17 | [Chart](https://www.tradingview.com/chart/?symbol=JBBB) | Janus Henderson B-BBB CLO ETF | JBBB |
+| 26 | 86 | $14.86 | [Chart](https://www.tradingview.com/chart/?symbol=DXC) | DXC Technology Company | DXC |
+| 16 | 85 | $16.45 | [Chart](https://www.tradingview.com/chart/?symbol=NVCR) | NovoCure Limited Ordinary Shares | NVCR |
+| 24 | 85 | $163.83 | [Chart](https://www.tradingview.com/chart/?symbol=UHS) | Universal Health Services, Inc. Class B | UHS |
+| 24 | 85 | $114.99 | [Chart](https://www.tradingview.com/chart/?symbol=CPT) | Camden Property Trust | CPT |
+| 20 | 84 | $246.76 | [Chart](https://www.tradingview.com/chart/?symbol=EFX) | Equifax, Incorporated | EFX |
+| 29 | 84 | $22.79 | [Chart](https://www.tradingview.com/chart/?symbol=RPD) | Rapid7, Inc. Common Stock | RPD |
+| 24 | 83 | $16.25 | [Chart](https://www.tradingview.com/chart/?symbol=CHCT) | Community Healthcare Trust Incorporated Common Stock, $0.01 par value per share | CHCT |
+| 25 | 83 | $13.54 | [Chart](https://www.tradingview.com/chart/?symbol=EWTX) | Edgewise Therapeutics, Inc. Common Stock | EWTX |
+| 31 | 82 | $105.18 | [Chart](https://www.tradingview.com/chart/?symbol=PRU) | Prudential Financial, Inc. | PRU |
+| 26 | 81 | $11.32 | [Chart](https://www.tradingview.com/chart/?symbol=NFBK) | Northfield Bancorp, Inc. | NFBK |
+| 28 | 81 | $10.97 | [Chart](https://www.tradingview.com/chart/?symbol=NAC) | Nuveen California Quality Municipal Income Fund | NAC |
+| 30 | 81 | $15.31 | [Chart](https://www.tradingview.com/chart/?symbol=SAFE) | Safehold Inc. | SAFE |
+| 35 | 81 | $47.26 | [Chart](https://www.tradingview.com/chart/?symbol=EDU) | New Oriental Education and Technology Group, Inc. American Depositary Shares (each representing ten (10) Common Shares) | EDU |
+| 28 | 80 | $74.86 | [Chart](https://www.tradingview.com/chart/?symbol=FRPT) | Freshpet, Inc. | FRPT |
+| 27 | 79 | $13.40 | [Chart](https://www.tradingview.com/chart/?symbol=PDO) | PIMCO Dynamic Income Opportunities Fund | PDO |
+| 27 | 79 | $25.93 | [Chart](https://www.tradingview.com/chart/?symbol=WY) | Weyerhaeuser Company | WY |
+| 28 | 79 | $16.45 | [Chart](https://www.tradingview.com/chart/?symbol=MLNK) | MeridianLink, Inc. | MLNK |
+| 35 | 79 | $23.99 | [Chart](https://www.tradingview.com/chart/?symbol=EWM) | iShares MSCI Malaysia ETF | EWM |
+| 36 | 79 | $71.64 | [Chart](https://www.tradingview.com/chart/?symbol=MMS) | MAXIMUS, Inc. | MMS |
+| 32 | 76 | $14.63 | [Chart](https://www.tradingview.com/chart/?symbol=RDY) | Dr. Reddy's Laboratories Limited American Depositary Shares | RDY |
+| 33 | 76 | $15.26 | [Chart](https://www.tradingview.com/chart/?symbol=BCSF) | Bain Capital Specialty Finance, Inc. | BCSF |
+| 28 | 74 | $342.69 | [Chart](https://www.tradingview.com/chart/?symbol=SHW) | The Sherwin-Williams Company | SHW |
+| 30 | 74 | $70.17 | [Chart](https://www.tradingview.com/chart/?symbol=PB) | Prosperity Bancshares Inc | PB |
+| 31 | 74 | $297.89 | [Chart](https://www.tradingview.com/chart/?symbol=UTHR) | United Therapeutics Corp | UTHR |
+| 38 | 74 | $88.89 | [Chart](https://www.tradingview.com/chart/?symbol=LPX) | Louisiana-Pacific Corp. | LPX |
+| 34 | 73 | $34.11 | [Chart](https://www.tradingview.com/chart/?symbol=AVNT) | Avient Corporation | AVNT |
+| 35 | 73 | $108.71 | [Chart](https://www.tradingview.com/chart/?symbol=ADUS) | Addus HomeCare Corp. | ADUS |
+| 38 | 73 | $195.66 | [Chart](https://www.tradingview.com/chart/?symbol=RGA) | Reinsurance Group of America, Incorporated | RGA |
+| 32 | 72 | $154.57 | [Chart](https://www.tradingview.com/chart/?symbol=WIX) | WIX.com Ltd. | WIX |
+| 33 | 72 | $13.03 | [Chart](https://www.tradingview.com/chart/?symbol=TFSL) | TFS Financial Corporation | TFSL |
+| 35 | 72 | $31.36 | [Chart](https://www.tradingview.com/chart/?symbol=CNQ) | Canadian Natural Resources Limited | CNQ |
+| 33 | 71 | $15.14 | [Chart](https://www.tradingview.com/chart/?symbol=ACVA) | ACV Auctions Inc. | ACVA |
+| 31 | 69 | $28.38 | [Chart](https://www.tradingview.com/chart/?symbol=CUZ) | Cousins Properties Inc. | CUZ |
+| 35 | 69 | $25.66 | [Chart](https://www.tradingview.com/chart/?symbol=ILF) | iShares Latin America 40 ETF | ILF |
+| 32 | 68 | $11.42 | [Chart](https://www.tradingview.com/chart/?symbol=PTLO) | Portillo's Inc. Class A Common Stock | PTLO |
+| 35 | 66 | $27.54 | [Chart](https://www.tradingview.com/chart/?symbol=EWZ) | iShares MSCI Brazil ETF | EWZ |
 
 ## **Methodology**
 
